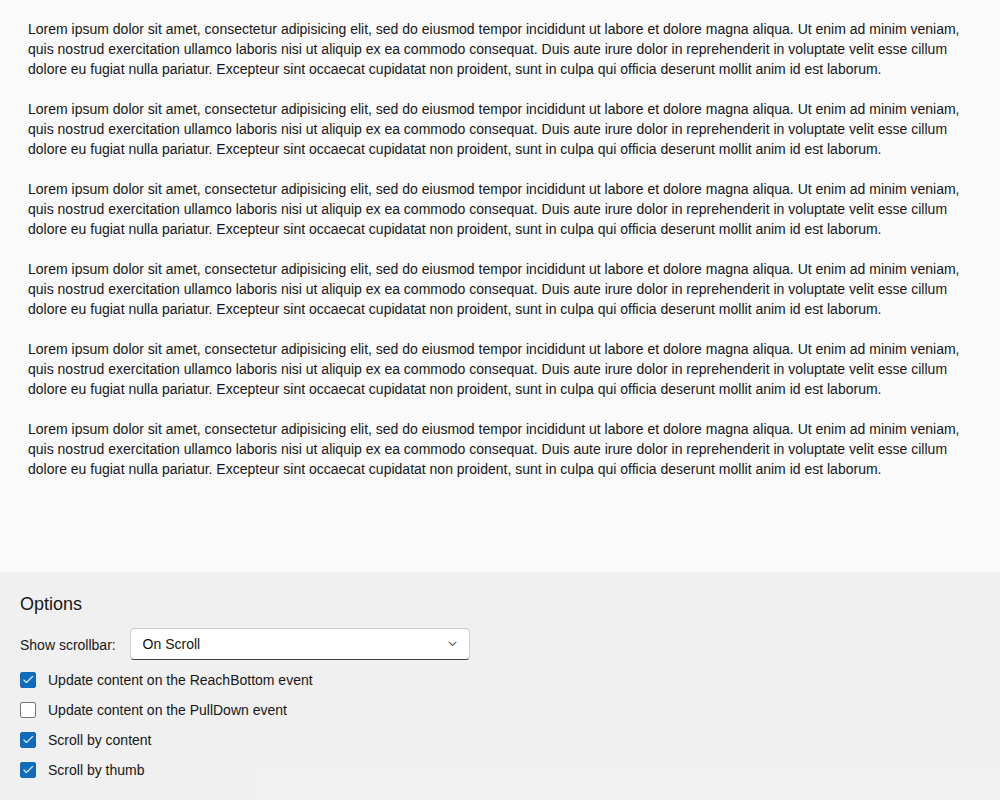
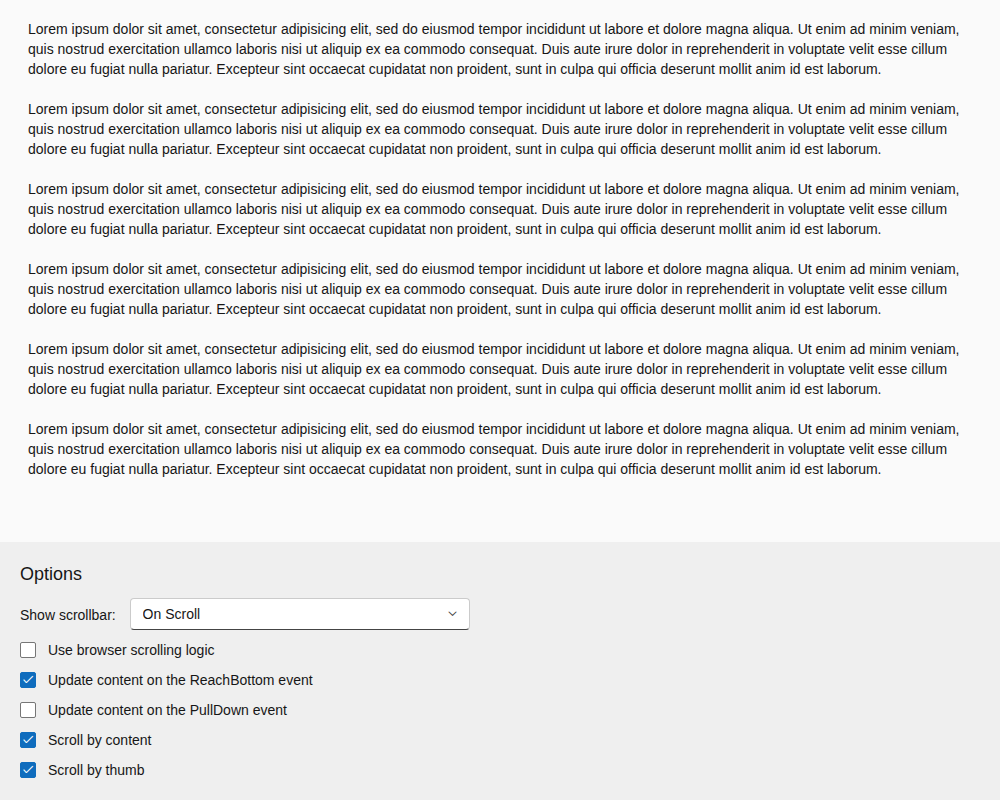
Demos - ScrollView: add useNative option (#35872)

Changed region(s): [[0.0, 0.6875, 0.217, 0.8438], [0.434, 0.7812, 0.465, 0.8125]]

diff --git a/apps/demos/Demos/ScrollView/Overview/React/App.tsx b/apps/demos/Demos/ScrollView/Overview/React/App.tsx
@@ -1,4 +1,6 @@
-import React, { useCallback, useRef, useState } from 'react';
+import React, {
+  useCallback, useEffect, useRef, useState,
+} from 'react';
 
 import CheckBox from 'devextreme-react/check-box';
 import type { CheckBoxTypes } from 'devextreme-react/check-box';
@@ -16,6 +18,7 @@ let updateContentTimer: ReturnType<typeof setTimeout>;
 
 const App = () => {
   const [showScrollBarMode, setShowScrollBarMode] = useState<ScrollViewTypes.Properties['showScrollbar']>('onScroll');
+  const [useNative, setUseNative] = useState<CheckBoxValue>(false);
   const [pullDown, setPullDown] = useState<CheckBoxValue>(false);
   const [scrollByContent, setScrollByContent] = useState<CheckBoxValue>(true);
   const [scrollByThumb, setScrollByThumb] = useState<CheckBoxValue>(true);
@@ -42,6 +45,18 @@ const App = () => {
   const updateBottomContent = useCallback((args: ScrollViewTypes.ReachBottomEvent) => {
     updateContent(args, 'ReachBottom');
   }, [updateContent]);
+
+  useEffect(() => {
+    setUseNative(scrollViewRef.current?.instance().option('useNative'));
+  }, []);
+
+  const useNativeValueChanged = useCallback((args: CheckBoxTypes.ValueChangedEvent) => {
+    setUseNative(args.value);
+    scrollViewRef.current?.instance().option('useNative', args.value);
+    if (args.value) {
+      setShowScrollBarMode((mode) => (mode === 'never' ? 'onScroll' : mode));
+    }
+  }, []);
 
   const pullDownValueChanged = useCallback((args: CheckBoxTypes.ValueChangedEvent) => {
     setPullDown(args.value);
@@ -76,7 +91,15 @@ const App = () => {
             inputAttr={showScrollBarModeLabel}
             displayExpr="text"
             value={showScrollBarMode}
+            disabled={!!useNative}
             onValueChange={setShowScrollBarMode}
+          />
+        </div>
+        <div className="option">
+          <CheckBox
+            text="Use browser scrolling logic"
+            value={useNative}
+            onValueChanged={useNativeValueChanged}
           />
         </div>
         <div className="option">
@@ -97,6 +120,7 @@ const App = () => {
           <CheckBox
             text="Scroll by content"
             value={scrollByContent}
+            disabled={!!useNative}
             onValueChange={setScrollByContent}
           />
         </div>
@@ -104,6 +128,7 @@ const App = () => {
           <CheckBox
             text="Scroll by thumb"
             value={scrollByThumb}
+            disabled={!!useNative}
             onValueChange={setScrollByThumb}
           />
         </div>

diff --git a/apps/demos/Demos/ScrollView/Overview/Vue/App.vue b/apps/demos/Demos/ScrollView/Overview/Vue/App.vue
@@ -26,8 +26,17 @@
             :items="showScrollbarModes"
             :input-attr="{ 'aria-label': 'Show Scrollbar Mode' }"
             v-model:value="showScrollbar"
+            :disabled="useNative"
             value-expr="value"
             display-expr="text"
+          />
+        </div>
+        <div class="option">
+          <DxCheckBox
+            id="use-native"
+            v-model:value="useNative"
+            text="Use browser scrolling logic"
+            @value-changed="onUseNativeChanged"
           />
         </div>
         <div class="option">
@@ -48,12 +57,14 @@
         <div class="option">
           <DxCheckBox
             v-model:value="scrollByContent"
+            :disabled="useNative"
             text="Scroll by content"
           />
         </div>
         <div class="option">
           <DxCheckBox
             v-model:value="scrollByThumb"
+            :disabled="useNative"
             text="Scroll by thumb"
           />
         </div>
@@ -62,13 +73,14 @@
   </div>
 </template>
 <script setup lang="ts">
-import { ref } from 'vue';
+import { onMounted, ref } from 'vue';
 import { DxScrollView, type DxScrollViewTypes } from 'devextreme-vue/scroll-view';
 import { DxSelectBox } from 'devextreme-vue/select-box';
 import { DxCheckBox, type DxCheckBoxTypes } from 'devextreme-vue/check-box';
 import { longText } from './data.ts';
 
 const content = ref(longText);
+const useNative = ref<boolean>(false);
 const pullDown = ref(false);
 const showScrollbarModes = ref([
   {
@@ -92,6 +104,10 @@ const showScrollbar = ref<DxScrollViewTypes.Properties['showScrollbar']>('onScro
 const scrollByContent = ref(true);
 const scrollByThumb = ref(true);
 const scrollViewWidget = ref();
+
+onMounted(() => {
+  useNative.value = scrollViewWidget.value.instance.option('useNative');
+});
 
 let updateContentTimer: ReturnType<typeof setTimeout>;
 function updateContent(args: DxScrollViewTypes.ReachBottomEvent, eventName: string) {
@@ -117,6 +133,12 @@ function onValueChanged(args: DxCheckBoxTypes.ValueChangedEvent) {
     'onReachBottom',
     args.value ? updateBottomContent : null,
   );
+}
+function onUseNativeChanged(args: DxCheckBoxTypes.ValueChangedEvent) {
+  scrollViewWidget.value.instance.option('useNative', args.value);
+  if (args.value && showScrollbar.value === 'never') {
+    showScrollbar.value = 'onScroll';
+  }
 }
 </script>
 <style>

diff --git a/apps/demos/Demos/ScrollView/Overview/ReactJs/App.js b/apps/demos/Demos/ScrollView/Overview/ReactJs/App.js
@@ -1,4 +1,6 @@
-import React, { useCallback, useRef, useState } from 'react';
+import React, {
+  useCallback, useEffect, useRef, useState,
+} from 'react';
 import CheckBox from 'devextreme-react/check-box';
 import ScrollView from 'devextreme-react/scroll-view';
 import SelectBox from 'devextreme-react/select-box';
@@ -8,6 +10,7 @@ const showScrollBarModeLabel = { 'aria-label': 'Show Scrollbar Mode' };
 let updateContentTimer;
 const App = () => {
   const [showScrollBarMode, setShowScrollBarMode] = useState('onScroll');
+  const [useNative, setUseNative] = useState(false);
   const [pullDown, setPullDown] = useState(false);
   const [scrollByContent, setScrollByContent] = useState(true);
   const [scrollByThumb, setScrollByThumb] = useState(true);
@@ -41,6 +44,16 @@ const App = () => {
     },
     [updateContent],
   );
+  useEffect(() => {
+    setUseNative(scrollViewRef.current?.instance().option('useNative'));
+  }, []);
+  const useNativeValueChanged = useCallback((args) => {
+    setUseNative(args.value);
+    scrollViewRef.current?.instance().option('useNative', args.value);
+    if (args.value) {
+      setShowScrollBarMode((mode) => (mode === 'never' ? 'onScroll' : mode));
+    }
+  }, []);
   const pullDownValueChanged = useCallback((args) => {
     setPullDown(args.value);
   }, []);
@@ -72,7 +85,15 @@ const App = () => {
             inputAttr={showScrollBarModeLabel}
             displayExpr="text"
             value={showScrollBarMode}
+            disabled={!!useNative}
             onValueChange={setShowScrollBarMode}
+          />
+        </div>
+        <div className="option">
+          <CheckBox
+            text="Use browser scrolling logic"
+            value={useNative}
+            onValueChanged={useNativeValueChanged}
           />
         </div>
         <div className="option">
@@ -93,6 +114,7 @@ const App = () => {
           <CheckBox
             text="Scroll by content"
             value={scrollByContent}
+            disabled={!!useNative}
             onValueChange={setScrollByContent}
           />
         </div>
@@ -100,6 +122,7 @@ const App = () => {
           <CheckBox
             text="Scroll by thumb"
             value={scrollByThumb}
+            disabled={!!useNative}
             onValueChange={setScrollByThumb}
           />
         </div>

diff --git a/apps/demos/Demos/ScrollView/Overview/jQuery/index.js b/apps/demos/Demos/ScrollView/Overview/jQuery/index.js
@@ -38,14 +38,47 @@ $(() => {
     value: 'never',
   }];
 
-  $('#show-scrollbar-mode').dxSelectBox({
+  const showScrollbarSelectBox = $('#show-scrollbar-mode').dxSelectBox({
     items: showScrollbarModes,
     value: showScrollbarModes[0].value,
+    disabled: scrollViewWidget.option('useNative'),
     inputAttr: { 'aria-label': 'Show Scrollbar Mode' },
     valueExpr: 'value',
     displayExpr: 'text',
     onValueChanged(data) {
       scrollViewWidget.option('showScrollbar', data.value);
+    },
+  }).dxSelectBox('instance');
+
+  const scrollByContentCheckBox = $('#scroll-by-content').dxCheckBox({
+    value: true,
+    text: 'Scroll by content',
+    disabled: scrollViewWidget.option('useNative'),
+    onValueChanged(data) {
+      scrollViewWidget.option('scrollByContent', data.value);
+    },
+  }).dxCheckBox('instance');
+
+  const scrollByThumbCheckBox = $('#scroll-by-thumb').dxCheckBox({
+    value: true,
+    text: 'Scroll by thumb',
+    disabled: scrollViewWidget.option('useNative'),
+    onValueChanged(data) {
+      scrollViewWidget.option('scrollByThumb', data.value);
+    },
+  }).dxCheckBox('instance');
+
+  $('#use-native').dxCheckBox({
+    value: scrollViewWidget.option('useNative'),
+    text: 'Use browser scrolling logic',
+    onValueChanged(data) {
+      scrollViewWidget.option('useNative', data.value);
+      showScrollbarSelectBox.option('disabled', data.value);
+      scrollByContentCheckBox.option('disabled', data.value);
+      scrollByThumbCheckBox.option('disabled', data.value);
+      if (data.value && showScrollbarSelectBox.option('value') === 'never') {
+        showScrollbarSelectBox.option('value', 'onScroll');
+      }
     },
   });
 
@@ -63,22 +96,6 @@ $(() => {
     onValueChanged(data) {
       scrollViewWidget.option('onPullDown', data.value ? updateTopContent : null);
       scrollViewWidget.option('bounceEnabled', data.value);
-    },
-  });
-
-  $('#scroll-by-content').dxCheckBox({
-    value: true,
-    text: 'Scroll by content',
-    onValueChanged(data) {
-      scrollViewWidget.option('scrollByContent', data.value);
-    },
-  });
-
-  $('#scroll-by-thumb').dxCheckBox({
-    value: true,
-    text: 'Scroll by thumb',
-    onValueChanged(data) {
-      scrollViewWidget.option('scrollByThumb', data.value);
     },
   });
 });

diff --git a/apps/demos/Demos/ScrollView/Overview/Angular/app/app.component.html b/apps/demos/Demos/ScrollView/Overview/Angular/app/app.component.html
@@ -23,8 +23,18 @@
         valueExpr="value"
         displayExpr="text"
         [(value)]="scrollbarMode"
+        [disabled]="useNative"
       >
       </dx-select-box>
+    </div>
+    <div class="option">
+      <dx-check-box
+        id="use-native"
+        text="Use browser scrolling logic"
+        [(value)]="useNative"
+        (onValueChanged)="useNativeChanged($event)"
+      >
+      </dx-check-box>
     </div>
     <div class="option">
       <dx-check-box
@@ -42,11 +52,19 @@
       </dx-check-box>
     </div>
     <div class="option">
-      <dx-check-box text="Scroll by content" [(value)]="scrollByContent">
+      <dx-check-box
+        text="Scroll by content"
+        [(value)]="scrollByContent"
+        [disabled]="useNative"
+      >
       </dx-check-box>
     </div>
     <div class="option">
-      <dx-check-box text="Scroll by thumb" [(value)]="scrollByThumb">
+      <dx-check-box
+        text="Scroll by thumb"
+        [(value)]="scrollByThumb"
+        [disabled]="useNative"
+      >
       </dx-check-box>
     </div>
   </div>

diff --git a/apps/demos/Demos/ScrollView/Overview/Angular/app/app.component.ts b/apps/demos/Demos/ScrollView/Overview/Angular/app/app.component.ts
@@ -60,13 +60,24 @@ export class AppComponent implements AfterViewInit {
 
   pullDown = false;
 
+  useNative: boolean;
+
   constructor(service: Service, private changeDetectorRef: ChangeDetectorRef) {
     this.content = service.getContent();
   }
 
   ngAfterViewInit() {
     this.scrollView.instance.option('onReachBottom', this.updateBottomContent);
+    this.useNative = this.scrollView.instance.option('useNative');
+    this.changeDetectorRef.detectChanges();
   }
+
+  useNativeChanged = (data: DxCheckBoxTypes.ValueChangedEvent) => {
+    this.scrollView.instance.option('useNative', data.value);
+    if (data.value && this.scrollbarMode === 'never') {
+      this.scrollbarMode = 'onScroll';
+    }
+  };
 
   valueChanged = (data: DxCheckBoxTypes.ValueChangedEvent) => {
     this.scrollView.instance.option('onReachBottom', data.value ? this.updateBottomContent : null);

diff --git a/apps/demos/Demos/ScrollView/Overview/jQuery/index.html b/apps/demos/Demos/ScrollView/Overview/jQuery/index.html
@@ -26,6 +26,9 @@
             <div id="show-scrollbar-mode"></div>
           </div>
           <div class="option">
+            <div id="use-native"></div>
+          </div>
+          <div class="option">
             <div id="use-reach-bottom"></div>
           </div>
           <div class="option">
